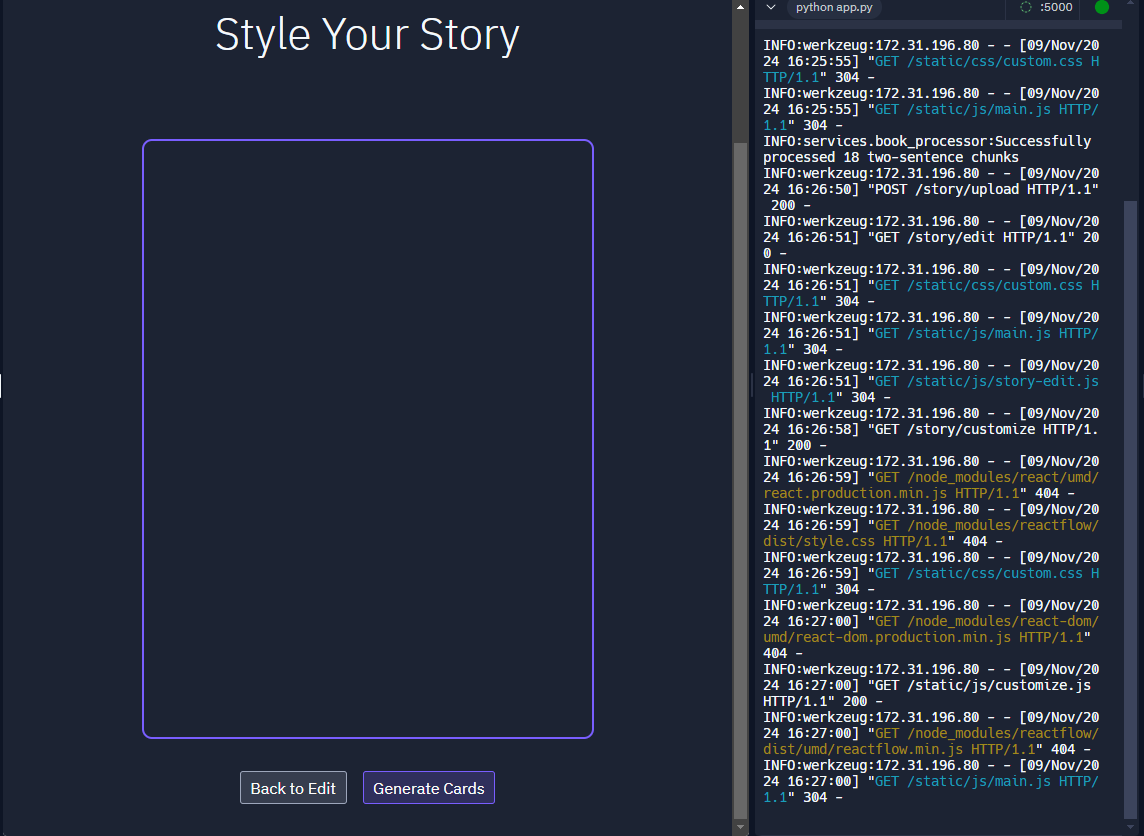
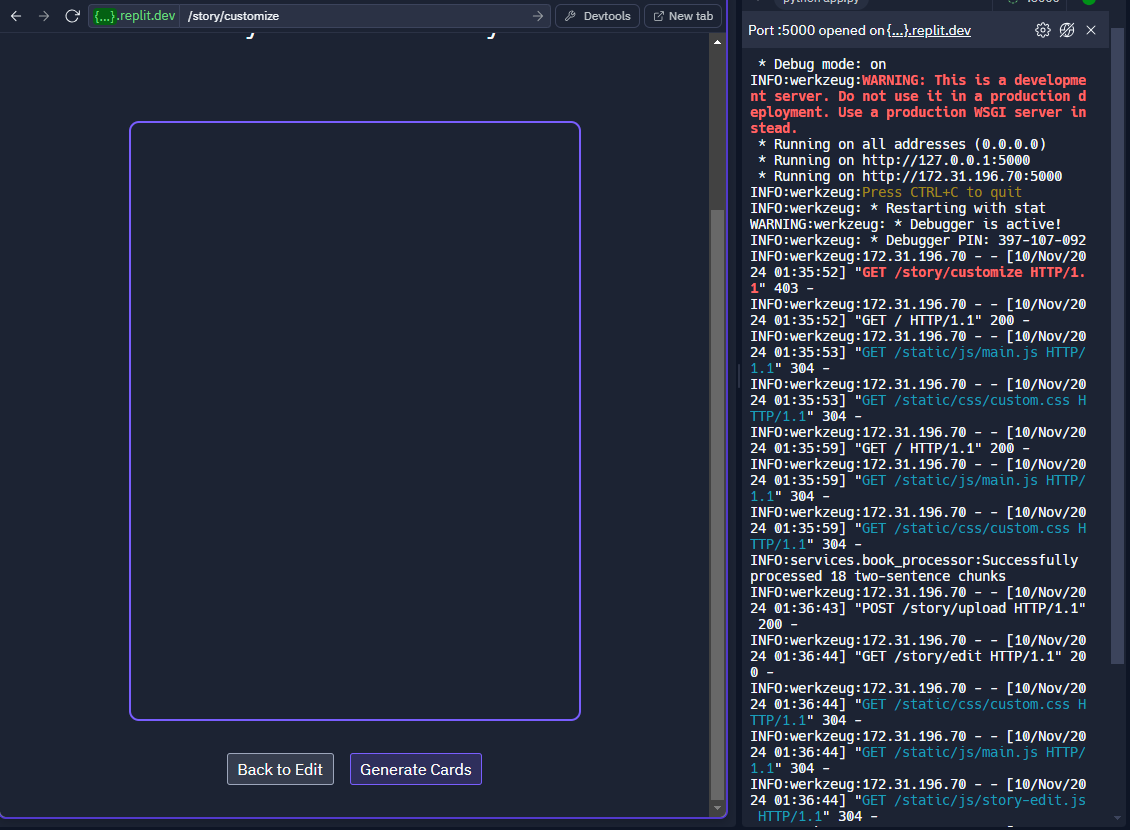
Agent query: Please verify if the node editor interface is now loading correctly without any ReactFlow errors.

diff --git a/static/js/customize.js b/static/js/customize.js
@@ -26,13 +26,34 @@ class ErrorBoundary extends React.Component {
     }
 }
 
-// Node editor component
-function NodeEditor({ storyData }) {
-    if (!window.React || !window.ReactFlow) {
-        console.error('Required libraries not loaded');
-        throw new Error('Required libraries not loaded. Please refresh the page.');
+// Define ReactFlow components globally
+let Flow, FlowProvider, Background, Controls;
+
+// Initialize ReactFlow components
+function initializeReactFlow() {
+    // Check if ReactFlow is available in window
+    if (!window.ReactFlow) {
+        console.error('ReactFlow not loaded, checking @reactflow/core');
+        if (window['@reactflow/core']) {
+            window.ReactFlow = window['@reactflow/core'];
+        } else {
+            throw new Error('ReactFlow library not found');
+        }
     }
 
+    // Initialize components with fallbacks
+    FlowProvider = window.ReactFlow.ReactFlowProvider || window.ReactFlow.Provider;
+    Flow = window.ReactFlow.ReactFlow || window.ReactFlow.default;
+    Background = window.ReactFlow.Background || (window.ReactFlow.default && window.ReactFlow.default.Background);
+    Controls = window.ReactFlow.Controls || (window.ReactFlow.default && window.ReactFlow.default.Controls);
+
+    if (!Flow || !FlowProvider) {
+        throw new Error('Required ReactFlow components not found');
+    }
+}
+
+// Node editor component
+function NodeEditor({ storyData }) {
     const [nodes, setNodes] = React.useState([]);
     const [edges, setEdges] = React.useState([]);
     const [initialized, setInitialized] = React.useState(false);
@@ -147,8 +168,8 @@ function NodeEditor({ storyData }) {
         );
     }
 
-    return React.createElement(ReactFlow.ReactFlowProvider, null,
-        React.createElement(ReactFlow.ReactFlow, {
+    return React.createElement(FlowProvider, null,
+        React.createElement(Flow, {
             nodes,
             edges,
             fitView: true,
@@ -156,12 +177,12 @@ function NodeEditor({ storyData }) {
             nodesConnectable: false,
             defaultViewport: { x: 0, y: 0, zoom: 0.75 }
         },
-        React.createElement(ReactFlow.Background, {
+        React.createElement(Background, {
             color: '#aaa',
             gap: 16,
             size: 1
         }),
-        React.createElement(ReactFlow.Controls))
+        React.createElement(Controls))
     );
 }
 
@@ -170,18 +191,26 @@ document.addEventListener('DOMContentLoaded', () => {
     console.log('DOM Content Loaded, checking dependencies...');
     
     // Check for required dependencies
-    if (!window.React) {
-        console.error('React not loaded');
+    const dependencies = {
+        'React': window.React,
+        'ReactDOM': window.ReactDOM
+    };
+
+    const missingDeps = Object.entries(dependencies)
+        .filter(([name, dep]) => !dep)
+        .map(([name]) => name);
+
+    if (missingDeps.length > 0) {
+        console.error(`Missing dependencies: ${missingDeps.join(', ')}`);
         return;
     }
-    
-    if (!window.ReactDOM) {
-        console.error('ReactDOM not loaded');
-        return;
-    }
-    
-    if (!window.ReactFlow) {
-        console.error('ReactFlow not loaded');
+
+    // Initialize ReactFlow
+    try {
+        initializeReactFlow();
+        console.log('ReactFlow initialized successfully');
+    } catch (error) {
+        console.error('Failed to initialize ReactFlow:', error);
         return;
     }
 

diff --git a/templates/story/customize.html b/templates/story/customize.html
@@ -17,12 +17,12 @@
 
 {% block scripts %}
 <!-- Load React first -->
-<script src="https://unpkg.com/react@17/umd/react.production.min.js"></script>
-<script src="https://unpkg.com/react-dom@17/umd/react-dom.production.min.js"></script>
+<script src="https://unpkg.com/react@17.0.2/umd/react.production.min.js"></script>
+<script src="https://unpkg.com/react-dom@17.0.2/umd/react-dom.production.min.js"></script>
 
-<!-- Add ReactFlow styles and script -->
-<link href="https://unpkg.com/reactflow@11/dist/style.css" rel="stylesheet" />
-<script src="https://unpkg.com/reactflow@11/dist/umd/reactflow.min.js"></script>
+<!-- ReactFlow dependencies -->
+<link href="https://unpkg.com/reactflow@11.7.4/dist/style.css" rel="stylesheet" />
+<script src="https://unpkg.com/reactflow@11.7.4/dist/umd/reactflow.min.js"></script>
 
 <!-- Custom script loaded last -->
 <script src="{{ url_for('static', filename='js/customize.js') }}" type="text/javascript"></script>
